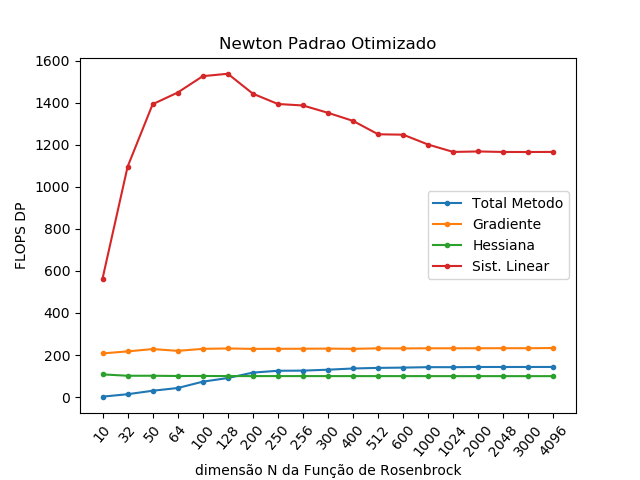
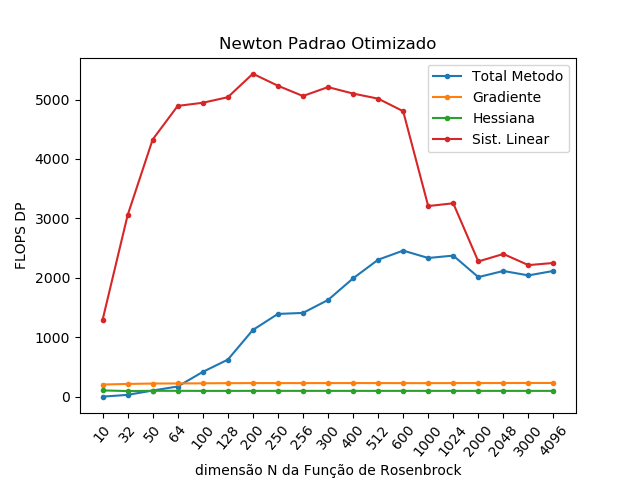
..

diff --git a/trab2-resul/scri.py b/trab2-resul/scri.py
@@ -75,19 +75,19 @@ if __name__ == "__main__":
     # metrica eh L3
     L3noOptP = '../trab-original/noOPT_L3Padrao.csv'
     L3noOptI = '../trab-original/noOPT_L3Inexato.csv'
-    L3OptP   = '../trab2-icc-opt/OPT_L3Inexato.csv'
+    L3OptP   = '../trab2-icc-opt/OPT_L3Padrao.csv'
     L3OptI   = '../trab2-icc-opt/OPT_L3Inexato.csv'
     
     # metrica eh L2
     L2P  = '../trab-original/noOPT_L2Padrao.csv'
     L2I  = '../trab-original/noOPT_L2Inexato.csv'
-    L2oP = '../trab2-icc-opt/OPT_L2Inexato.csv'
+    L2oP = '../trab2-icc-opt/OPT_L2Padrao.csv'
     L2oI = '../trab2-icc-opt/OPT_L2Inexato.csv'
 
     # metrica eh DP
     DPP  = '../trab-original/noOPT_FLOPS_DPPadrao.csv'
     DPI  = '../trab-original/noOPT_FLOPS_DPInexato.csv'
-    DPoP = '../trab2-icc-opt/OPT_FLOPS_DPInexato.csv'
+    DPoP = '../trab2-icc-opt/OPT_FLOPS_DPPadrao.csv'
     DPoI = '../trab2-icc-opt/OPT_FLOPS_DPInexato.csv'
 
     # metrica eh AVX
